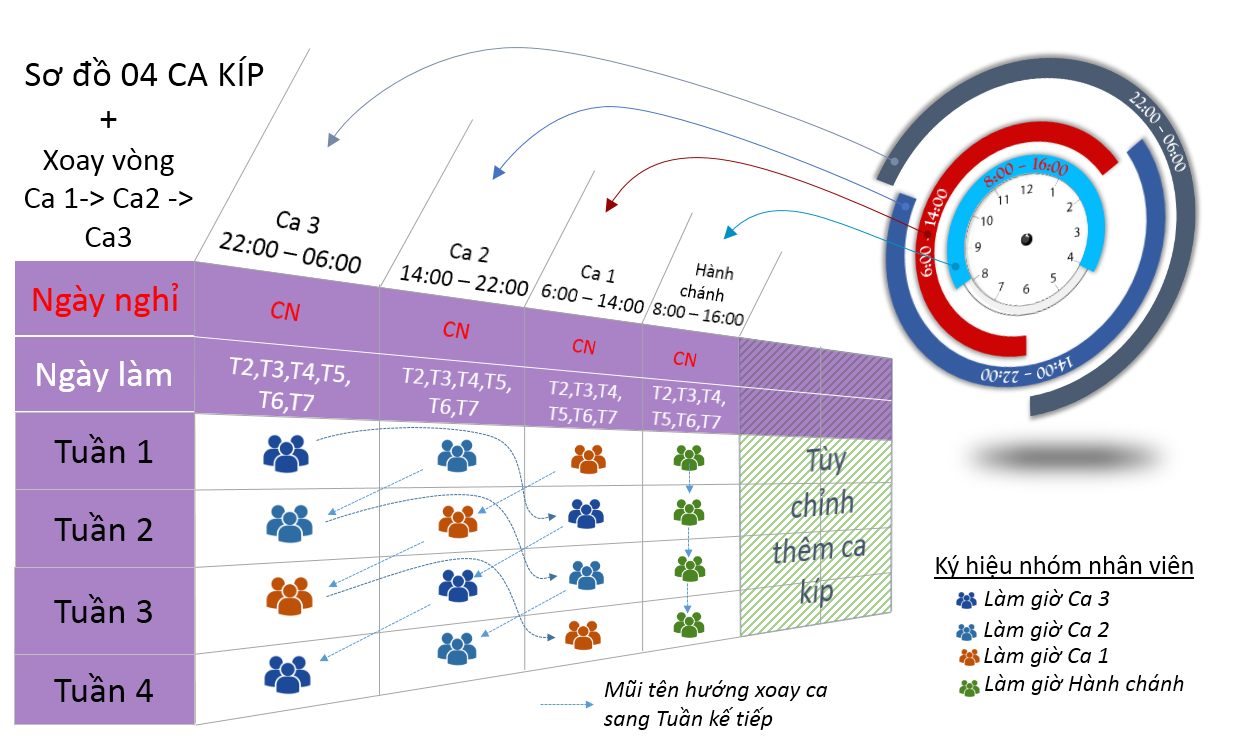
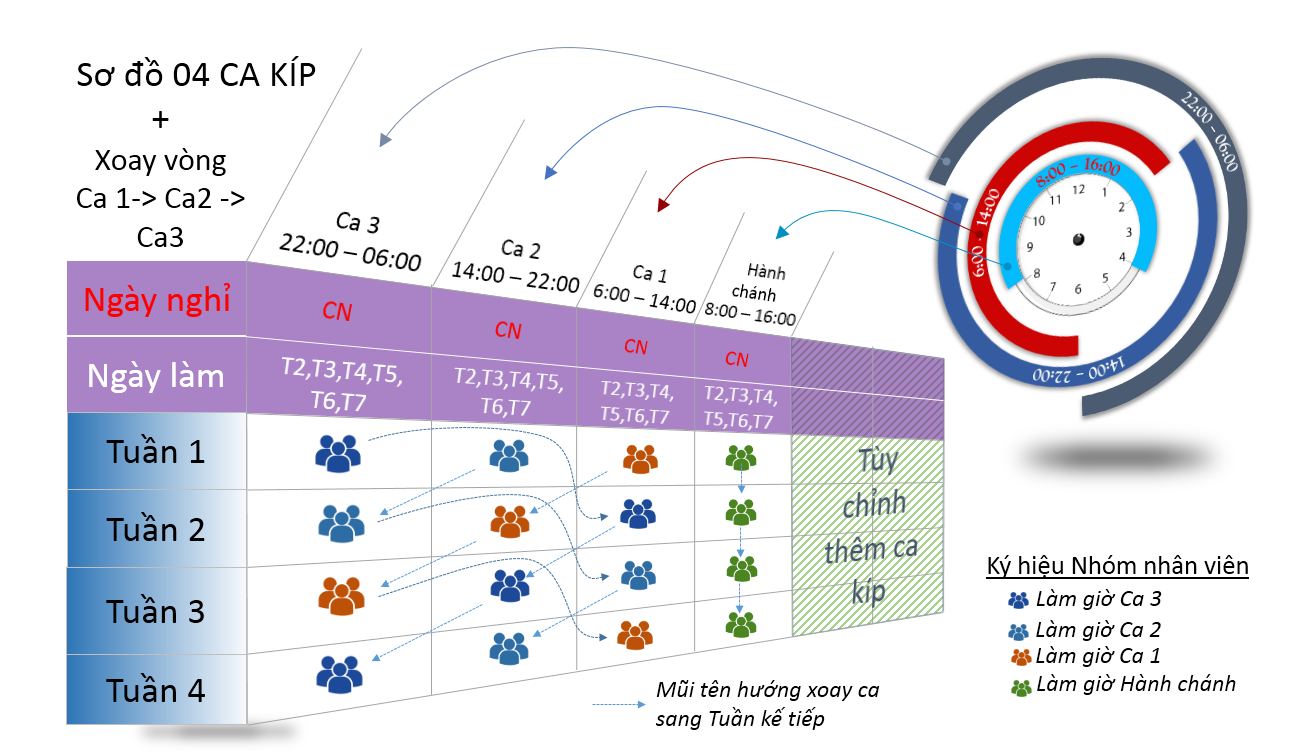
v3

diff --git a/cakip/index.html b/cakip/index.html
@@ -7,7 +7,7 @@
     <meta http-equiv="x-ua-compatible" content="ie=edge">
     <META name="viewport" content="width=device-width, initial-scale=1,user-scalable=no">
     <meta name="description" content="bảng chấm công,bảng kết quả công,chấm công, bảng công, báo cáo công, báo cáo kết quả chấm công, công nhân viên">
-    <meta property="og:image" content="https://hrm.dnd.vn/src/ca-kip.jpg?v=1" />
+    <meta property="og:image" content="https://hrm.dnd.vn/src/ca-kip.jpg?v=2" />
 
     <LINK href="/src/ca-kip-logo.png" rel="icon" type="image/png">
 
@@ -162,7 +162,7 @@
                                 <div class="container-fluid px-0">
                                     <div class="row">
                                         <div class="col-12">
-                                            <img id="header_lazyimg" src="/src/ca-kip.png" alt="placeholder 960" class="img-fluid" />
+                                            <img id="header_lazyimg" src="/src/ca-kip.jpeg" alt="placeholder 960" class="img-fluid" />
                                         </div>
                                     </div>
                                 </div>
